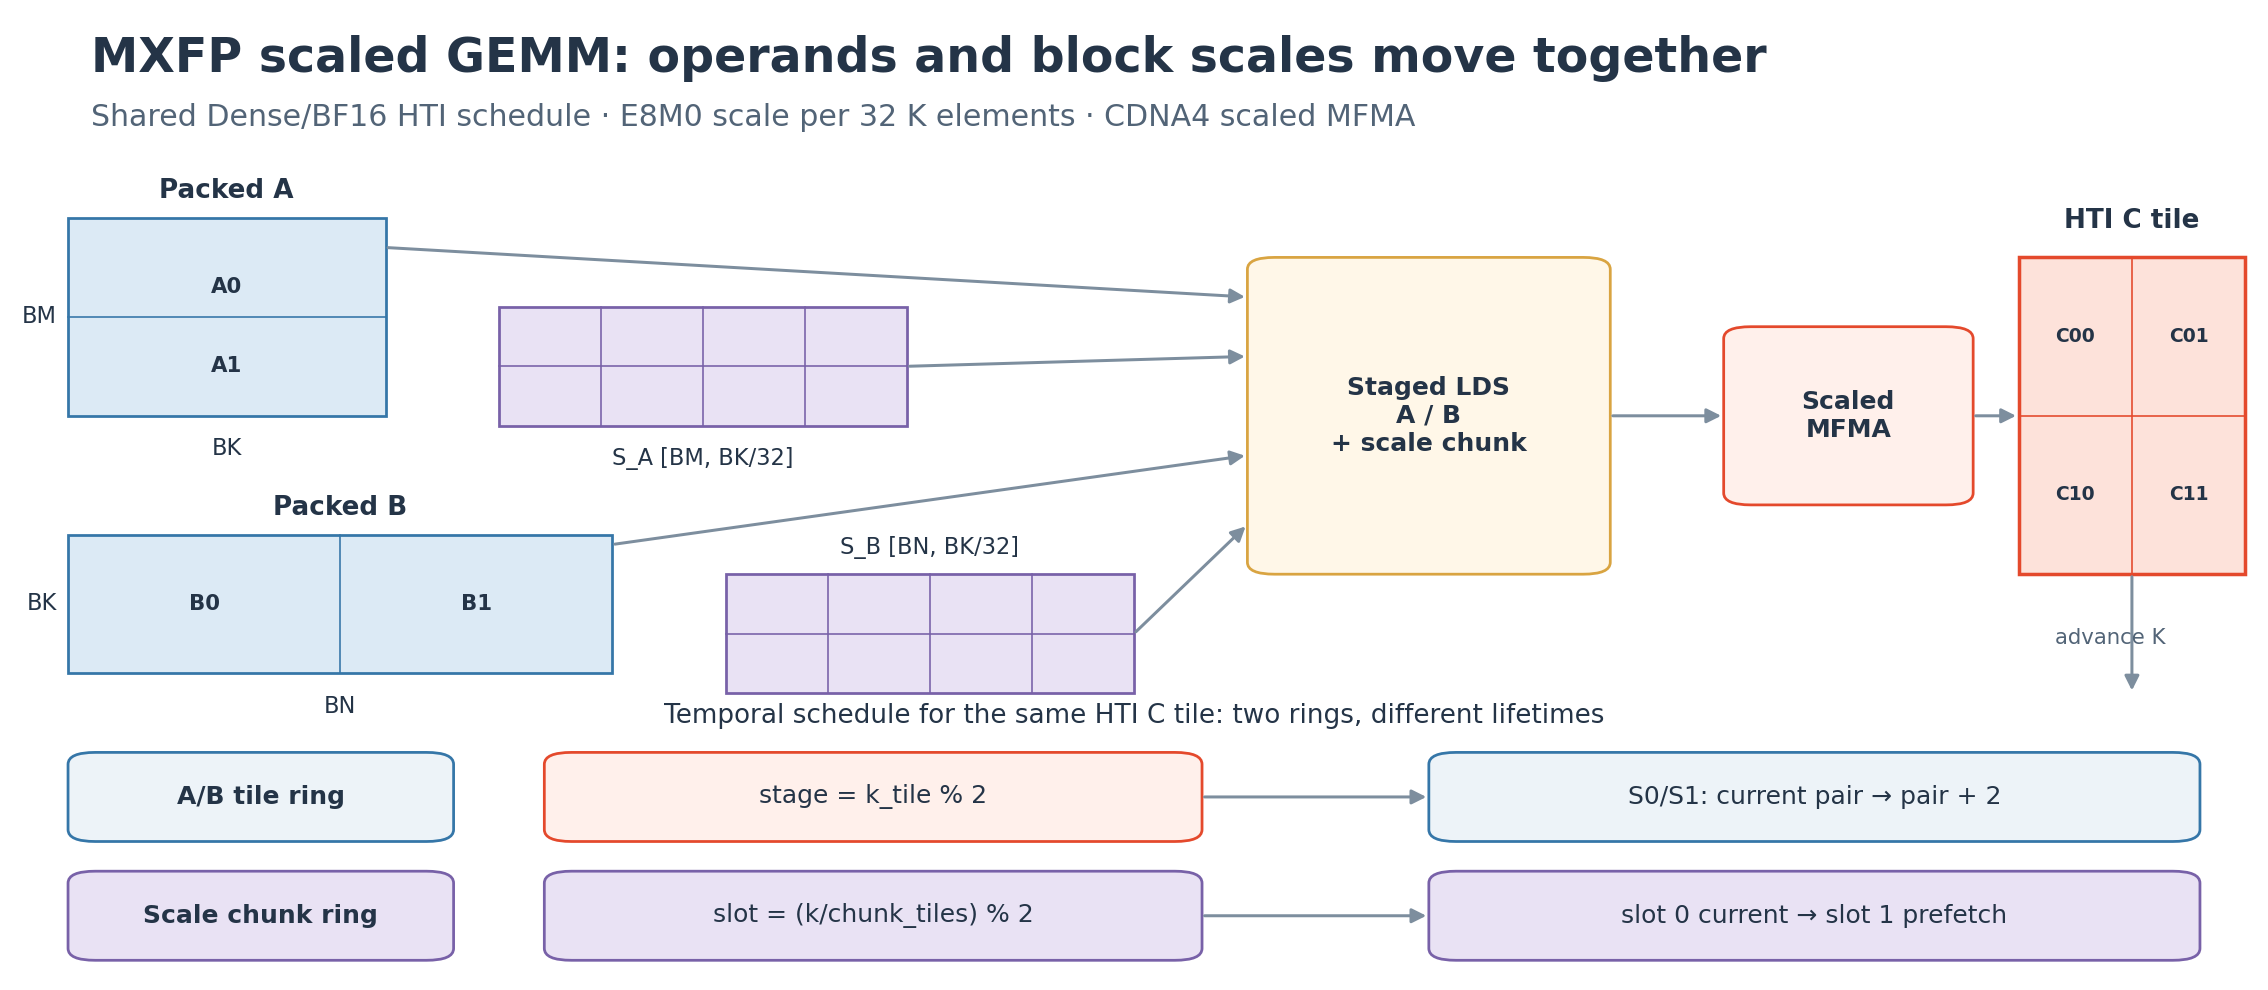
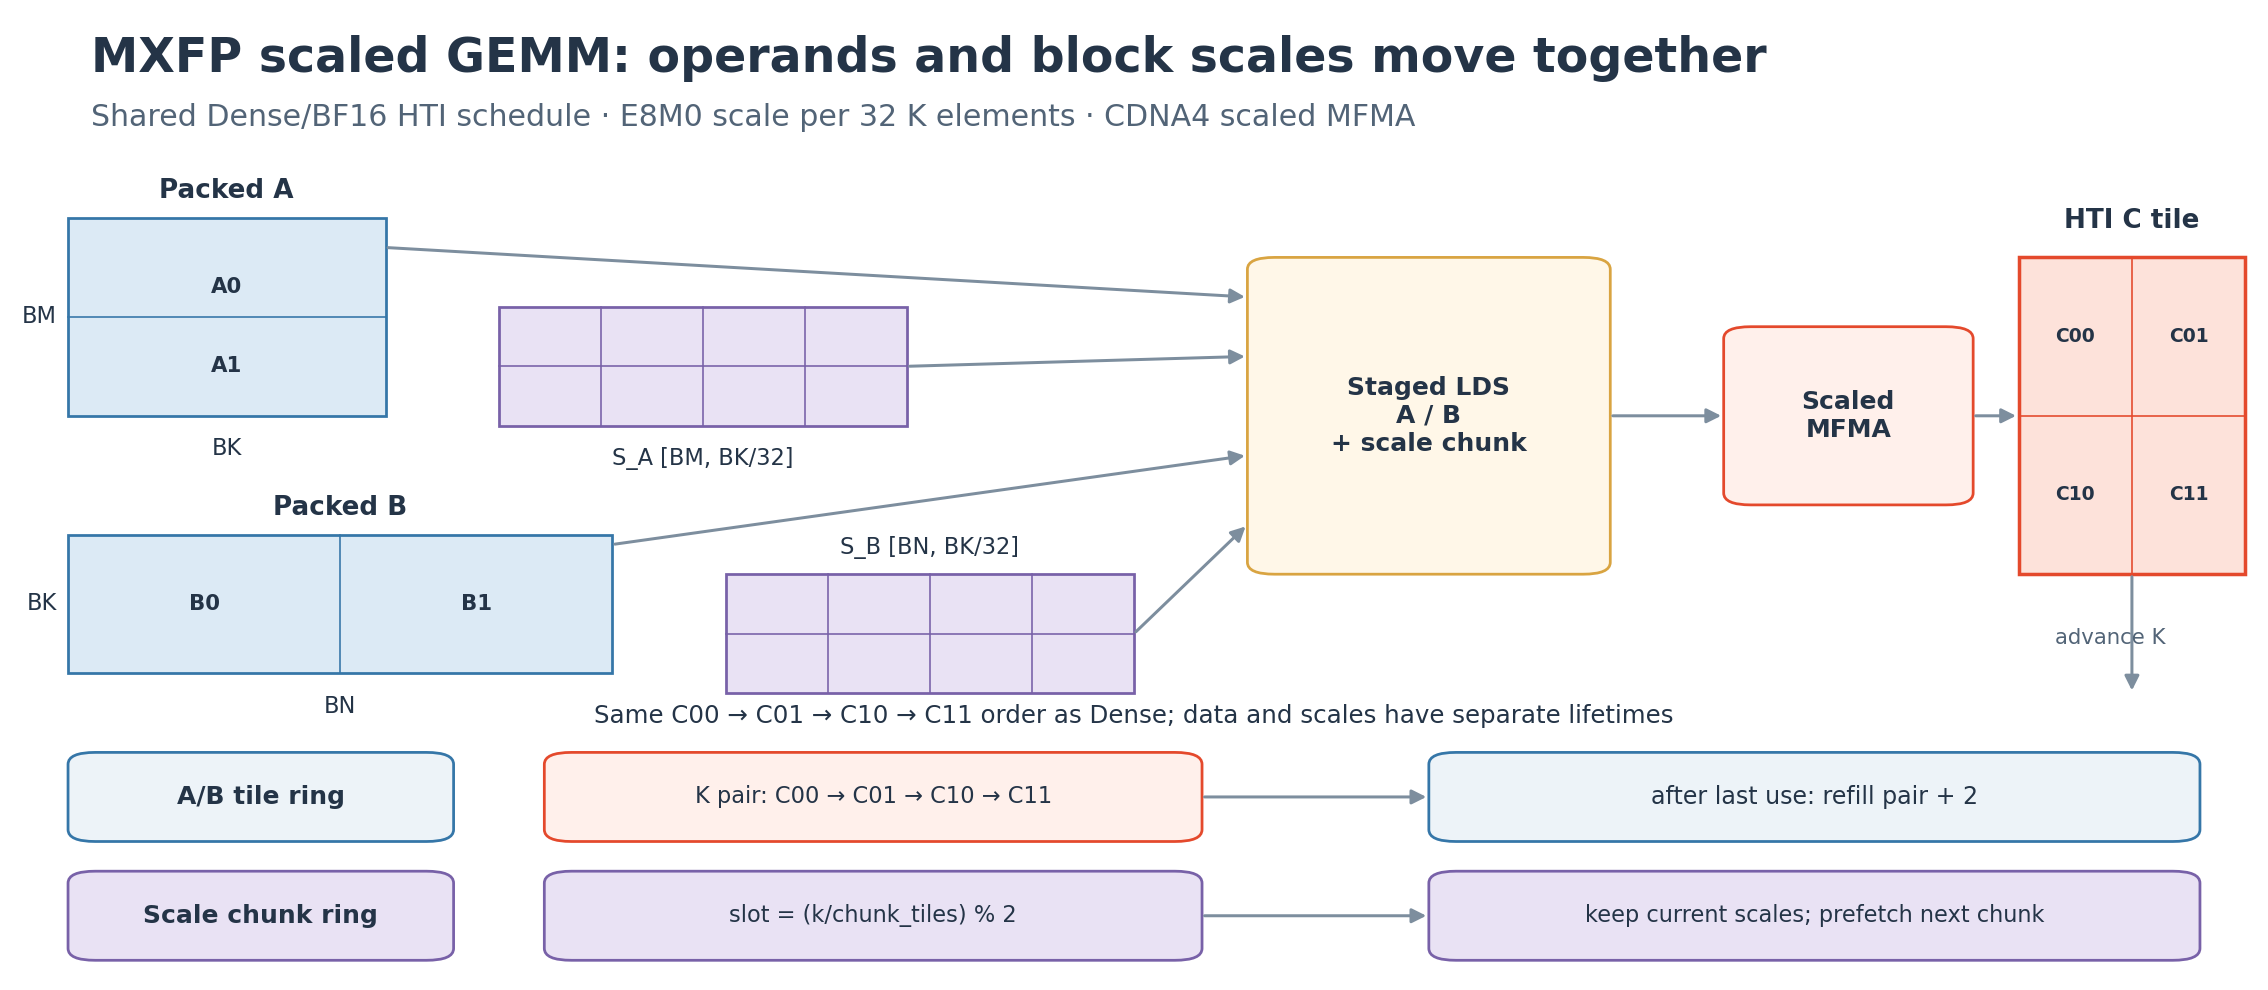
docs: clarify MXFP HTI lifetimes
Show the shared C-quadrant consumer order in the MXFP diagram and explain when the operand-stage and scale-chunk rings can be recycled.

diff --git a/docs/_static/flydsl-pytorch-backend/generate_figures.py b/docs/_static/flydsl-pytorch-backend/generate_figures.py
@@ -347,19 +347,19 @@ def scheduling_diagrams():
     mxfp.text(
         50,
         27,
-        "Temporal schedule for the same HTI C tile: two rings, different lifetimes",
+        "Same C00 → C01 → C10 → C11 order as Dense; data and scales have separate lifetimes",
         ha="center",
-        fontsize=10.5,
+        fontsize=9.8,
     )
     arrow(mxfp, (94, 42), (94, 30))
     mxfp.text(95.5, 35, "advance K", fontsize=8.5, color="#526477", ha="right")
     box(mxfp, 3, 15, 17, 9, "A/B tile ring", fill="#EDF3F8", edge=BLUE, bold=True)
-    box(mxfp, 24, 15, 29, 9, "stage = k_tile % 2", fill="#FFF0EB", edge=ORANGE)
-    box(mxfp, 63, 15, 34, 9, "S0/S1: current pair → pair + 2", fill="#EDF3F8", edge=BLUE)
+    box(mxfp, 24, 15, 29, 9, "K pair: C00 → C01 → C10 → C11", fill="#FFF0EB", edge=ORANGE, size=9)
+    box(mxfp, 63, 15, 34, 9, "after last use: refill pair + 2", fill="#EDF3F8", edge=BLUE, size=9.5)
     arrow(mxfp, (53, 19.5), (63, 19.5))
     box(mxfp, 3, 3, 17, 9, "Scale chunk ring", fill="#E9E2F4", edge=PURPLE, bold=True)
-    box(mxfp, 24, 3, 29, 9, "slot = (k/chunk_tiles) % 2", fill="#E9E2F4", edge=PURPLE)
-    box(mxfp, 63, 3, 34, 9, "slot 0 current → slot 1 prefetch", fill="#E9E2F4", edge=PURPLE)
+    box(mxfp, 24, 3, 29, 9, "slot = (k/chunk_tiles) % 2", fill="#E9E2F4", edge=PURPLE, size=9)
+    box(mxfp, 63, 3, 34, 9, "keep current scales; prefetch next chunk", fill="#E9E2F4", edge=PURPLE, size=9)
     arrow(mxfp, (53, 7.5), (63, 7.5))
     save(fig, "flydsl-mxfp-gemm-hti-pipeline")
 

diff --git a/docs/pytorch_flydsl_backend_blog.md b/docs/pytorch_flydsl_backend_blog.md
@@ -199,8 +199,9 @@ scale-chunk ring shown below is specific to HTI.
 
 *Figure 4. MXFP scaled-GEMM scheduling. The C-quadrant and K-pair schedule is
 shared with Dense/BF16. MXFP adds packed A/B values, E8M0 scale chunks, and
-scaled MFMA, with separate ping-pong loops for per-tile A/B stages and
-multi-tile scale chunks.*
+scaled MFMA. The A/B ring follows the same quadrant consumer order and refills
+after the last data consumer; the scale ring retains matching scales until
+those consumers finish, then prefetches the next chunk.*
 
 In the published September 20 measurements on MI355X, the 17-shape NT suite
 shows a **1.58x geometric-mean speedup for MXFP8 over ATen** and a **1.68x
